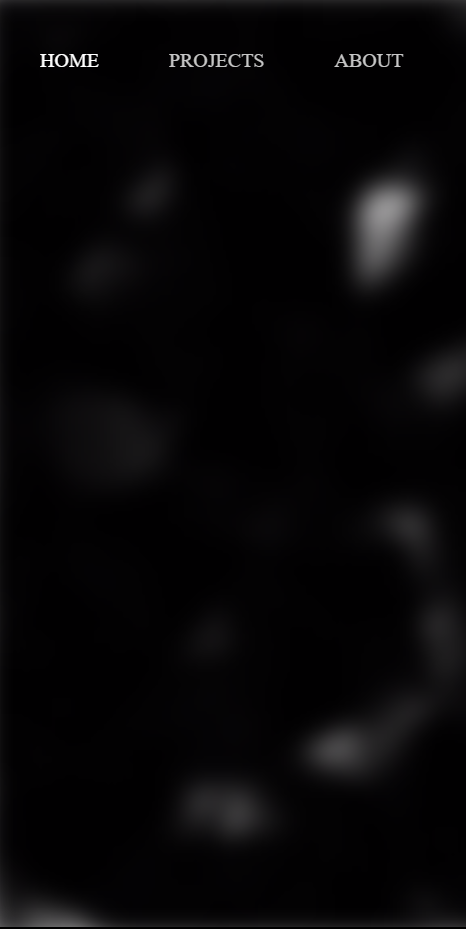
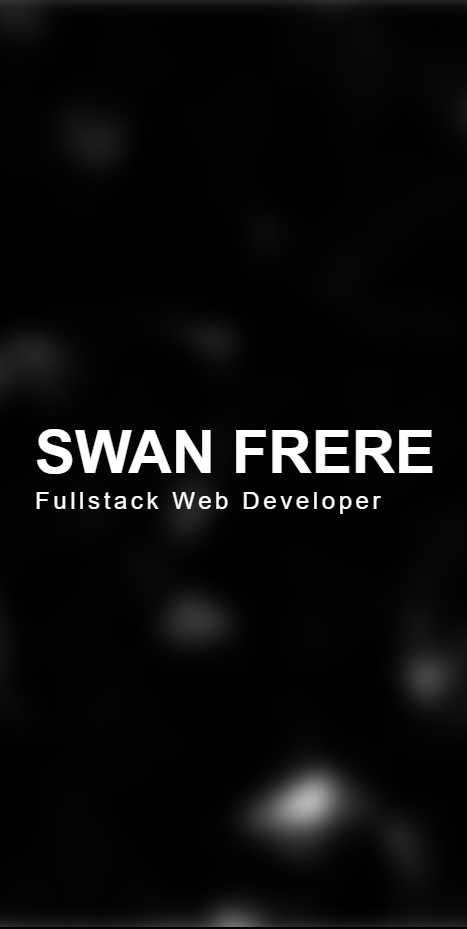
add: complete projects page

diff --git a/src/Data/projects.tsx b/src/Data/projects.tsx
@@ -2,15 +2,18 @@ const projects = [
         {
             index: 0,
             title: 'Portfolio',
+            description: "Portfolio personnel réalisé avec le framework ReactJS - Typescript, rendu avec technologie SSR (Server-Side Rendering). Le CSS est entièrement perosnnalisé (pas de Tailwind ou Bootstrap) et géré avec un compilateur SASS. L'objectif de ce projet est d'ouvrir une petite fenêtre sur moi et mon travail, en exposant mes principales réalisations.",
+            note: null,
+            link: 'http://localhost:5173/',
             images: [
                 '/images/portfolio1.png',
                 '/images/portfolio2.png',
                 '/images/portfolio3.png',
             ],
             technos: [
-                { name: 'React', color: '#61DBFB' },
-                { name: 'TypeScript', color: '#3178C6' },
-                { name: 'Sass', color: '#CC6699' },
+                { name: 'React', color: '#4aa2ed' },
+                { name: 'TypeScript', color: '#1f5da1' },
+                { name: 'Sass', color: '#9b2761' },
             ],
             isOdd: false,
             scroll: false,
@@ -18,16 +21,17 @@ const projects = [
         },
         {
             index: 1,
-            title: 'Portfolio',
+            title: 'Davy Corpet',
+            description: "Site vitrine pour un professionnel de la maçonnerie et du granulat. Réalisé avec ReactJS, le site est entièrement responsive et optimisé pour le référencement naturel. L'objectif de ce projet est de présenter les services de l'entreprise, les réalisations passées et les coordonnées de contact.",
+            note: "Le projet est en cours de développement.",
+            link: 'https://davy-corpet.fr/',
             images: [
-                '/images/portfolio/1.jpg',
-                '/images/portfolio/2.jpg',
-                '/images/portfolio/3.jpg',
+                '/images/davy1.png',
+                '/images/davy2.png',
+                '/images/davy3.png',
             ],
             technos: [
-                { name: 'Vue', color: '#61DBFB' },
-                { name: 'NextJS', color: '#539E43' },
-                { name: 'MongoDB', color: '#4DB33D' },
+                { name: 'React', color: '#4aa2ed' },
             ],
             isOdd: true,
             scroll: false,
@@ -35,19 +39,44 @@ const projects = [
         },
         {
             index: 2,
-            title: 'Portfolio',
+            title: "Roxy's Adventures",
+            description: "Jeu éducatif pour l'apprentissage de l'anglais. Réalisé avec la librairie ThreeJS, le jeu est entièrement en 3D et propose des mini-jeux pour apprendre l'anglais de manière ludique. L'objectif de ce projet est de proposer une alternative aux méthodes d'apprentissage traditionnelles. On incarne Roxy, un petit renard qui voyage à travers le monde pour apprendre l'anglais.",
+            note: "Malheureusement non déployé pour le moment.",
+            link: '#',
             images: [
-                '/images/portfolio/1.jpg',
-                '/images/portfolio/2.jpg',
-                '/images/portfolio/3.jpg',
+                '/images/roxy1.png',
+                '/images/roxy2.png',
+                '/images/roxy3.png',
             ],
             technos: [
-                { name: 'ThreeJS', color: '#61DBFB' },
-                { name: 'TypeScript', color: '#3178C6' },
-                { name: 'MongoDB', color: '#4DB33D' },
-                { name: 'Sass', color: '#CC6699' },
+                { name: 'Javascript', color: '#9ba103' },
+                { name: 'ThreeJS', color: '#3aa103' },
+                { name: 'Firebase', color: '#b86404' },
             ],
             isOdd: false,
+            scroll: false,
+            setScroll: () => { },
+        },
+        {
+            index: 3,
+            title: "S.W.A.N.",
+            description: "Sky Weather Analyisis Navigator est un projet scolaire réalisé individuellement dont l'objectif est de proposer une application web permettant de visualiser les données météorologiques en temps réel. L'application utilise l'api OpenWeather qui permet d'afficher différentes métriques telles que la température, l'humidité, le vent, la pluie, la neige, etc. L'application fonctionne avec une partie back en Spring Boot et un front en React. Le tout alimenté avec une base de données PostgreSQL et un service de cache redis. L'application est déployée avec Docker.",
+            note: "Non déployé car projet scolaire.",
+            link: '#',
+            images: [
+                '/images/swan1.png',
+                '/images/swan2.png',
+                '/images/swan3.png',
+            ],
+            technos: [
+                { name: 'Java', color: '#010d87' },
+                { name: 'Spring Boot', color: '#170187' },
+                { name: 'React', color: '#4aa2ed' },
+                { name: 'PostgreSQL', color: '#018787' },
+                { name: 'Redis', color: '#470909' },
+                { name: 'Docker', color: '#0757ad' },
+            ],
+            isOdd: true,
             scroll: false,
             setScroll: () => { },
         },

diff --git a/src/Components/Project/Project.scss b/src/Components/Project/Project.scss
@@ -8,6 +8,7 @@
     justify-content: center;
     align-items: center;
     color: #fff;
+    font-family: 'Lucida Sans', 'Lucida Sans Regular', 'Lucida Grande', 'Lucida Sans Unicode', Geneva, Verdana, sans-serif;
 
     &:nth-child(odd) {
         flex-direction: row-reverse;
@@ -91,8 +92,84 @@
         margin: 0;
         padding: 2rem;
     
-        background: rgba(255, 255, 255, 0.107);
+        background: rgba(255, 255, 255, 0.05);
         border-radius: 2rem;
+
+        p {
+            font-family: "Roboto Flex", sans-serif;
+            text-align: justify;
+        }
+
+        .link {
+            position: relative;
+            width: 8rem;
+            display: block;
+            background-color: rgb(135, 1, 60);
+            text-align: center;
+            text-decoration: none;
+            margin: 1rem 0;
+            padding: 0.5rem 1.5rem 0.5rem 1.5rem;
+            border-radius: 5px;
+            font-weight: bold;
+            text-transform: uppercase;
+            color: rgb(255, 255, 255);
+            overflow: hidden;
+
+            span {
+                position: relative;
+                z-index: 2;
+            }
+
+            &::before {
+                position: absolute;
+                content: "";
+                width: 100%;
+                height: 100%;
+                background-color: rgb(223, 6, 100);
+                top: 0;
+                left: 0;
+                transition: transform 0.5s;
+                transform: scaleX(0);
+                transform-origin: left;
+                z-index: 1;
+            }
+        
+            &::after {
+                position: absolute;
+                content: "\f072";
+                font: normal normal normal 14px/1 FontAwesome;
+                margin-left: 0.5rem;
+                margin-top: 4px;
+                transform: translateX(-7rem);
+                transition: transform 0.5s;
+                z-index: 3;
+            }
+
+            &:hover, &:focus {                
+                &::before {
+                    transform: scaleX(1);
+                    transform-origin: left;
+                }
+
+                &::after {
+                    transform: translateX(0);
+                }
+            }
+
+            &.disabled {
+                background-color: rgba(135, 1, 60, 0.5);
+                color: rgba(255, 255, 255, 0.5);
+                cursor: not-allowed;
+
+                &::before {
+                    background-color: rgba(110, 110, 110, 1);
+                }
+
+                &::after {
+                    content: "\f188";
+                }
+            }
+        }
 
         .technos ul {
             font-size: 0.85rem;
@@ -150,7 +227,26 @@
 }
 
 @media (max-width: 600px) {
-    .project .technos ul li {
-        font-size: 0.6rem;
+    .project {
+        .title {
+            .img-wrapper {
+                min-width: 300px;
+                height: 150px;
+            }
+        }
+
+        .caption {
+            p {
+                font-size: 0.9rem;
+            }
+            .link {
+                font-size: 0.9rem;
+                padding: 0.5rem 1rem 0.5rem 1rem;
+            }
+
+            .technos ul li {
+                font-size: 0.6rem;
+            }
+        }
     }
 }

diff --git a/src/Components/Project/Project.tsx b/src/Components/Project/Project.tsx
@@ -4,7 +4,7 @@ import useWindowDimensions from '../../Hooks/useWindowDimensions';
 
 
 
-function Project({ index, title, images, technos, isOdd = false, scroll, setScroll }: { index: number, title: string, images: Array<string>, technos: Array<Techno>,isOdd: boolean, scroll: boolean, setScroll: (scroll: boolean) => void }) {
+function Project({ index, title, description, note = null, link, images, technos, isOdd = false, scroll, setScroll }: { index: number, title: string, description: string, note: string|null, link: string, images: Array<string>, technos: Array<Techno>,isOdd: boolean, scroll: boolean, setScroll: (scroll: boolean) => void }) {
     const projectRef = useRef<HTMLDivElement>(null);
     const { height } = useWindowDimensions();
     const [isVisible, setIsVisible] = useState(false);
@@ -40,8 +40,13 @@ function Project({ index, title, images, technos, isOdd = false, scroll, setScro
             </div>
             <div className="caption">
                 <p>
-                    Lorem ipsum dolor sit amet consectetur adipisicing elit. Perspiciatis tempora distinctio ratione ullam illo eos quas placeat, odit blanditiis perferendis consequatur assumenda laudantium odio repellendus porro error quaerat eum provident.
+                    {description}
+                    {note && <>
+                        <br />
+                        <i>{note}</i>
+                    </>}
                 </p>
+                <a className={('#' === link ? 'disabled ' : '') + "link"} href={link} target={'#' === link ? '' : 'blank'}><span>Visit</span></a>
                 <div className="technos">
                     <ul>
                         {technos.map((techno, i) => <li key={i} style={{ backgroundColor: techno.color }}>{techno.name}</li>)}

diff --git a/src/Components/Hero/Hero.tsx b/src/Components/Hero/Hero.tsx
@@ -6,6 +6,7 @@ import './Hero.scss'
 import av1 from '../../assets/av1.png'
 import av2 from '../../assets/av2.png'
 import av3 from '../../assets/av3.png'
+import { NavLink } from "react-router-dom";
 
 function Hero({ parent }: { parent: React.RefObject<HTMLDivElement> }) {
     const [addBall, _setAddBall] = useState(false);
@@ -118,8 +119,8 @@ function Hero({ parent }: { parent: React.RefObject<HTMLDivElement> }) {
             <h1>SWAN FRERE</h1>
             <p ref={typewrite}></p>
             <div className="actions">
-                <a className="hire" href=""><span><i><FontAwesomeIcon icon={faSuitcase} /></i>Hire Me</span></a>
-                <a className="explore" href=""><span>Explore<i><FontAwesomeIcon icon={faArrowRight} /></i></span></a>
+                <a className="hire" href="https://www.linkedin.com/in/swan-frere/" target="blank"><span><i><FontAwesomeIcon icon={faSuitcase} /></i>Hire Me</span></a>
+                <NavLink className="explore" to="/projects"><span>Explore<i><FontAwesomeIcon icon={faArrowRight} /></i></span></NavLink>
             </div>
         </div>
         </div>

diff --git a/src/Pages/Projects.tsx b/src/Pages/Projects.tsx
@@ -10,7 +10,7 @@ function Projects( {projects}: { projects: Array<Project> } ) {
     return (
         <div className="main">
             <div className="projects" onScroll={() => setScroll(true)}>
-                {projects.map((projects, i) => <Project key={i} index={projects.index} title={projects.title} images={projects.images} technos={projects.technos} isOdd={projects.isOdd} scroll={scroll} setScroll={setScroll} />)}
+                {projects.map((project, i) => <Project key={i} index={project.index} title={project.title} description={project.description} note={project.note} link={project.link} images={project.images} technos={project.technos} isOdd={project.isOdd} scroll={scroll} setScroll={setScroll} />)}
             </div>
         </div>
     );

diff --git a/index.html b/index.html
@@ -6,7 +6,8 @@
   <link rel="icon" type="image/svg+xml" href="https://avatars.githubusercontent.com/u/114499713?v=4" />
   <link rel="preconnect" href="https://fonts.googleapis.com">
   <link rel="preconnect" href="https://fonts.gstatic.com" crossorigin>
-  <link href="https://fonts.googleapis.com/css2?family=Ojuju:wght@200..800&display=swap" rel="stylesheet">
+  <link href="https://fonts.googleapis.com/css2?family=Press+Start+2P&display=swap" rel="stylesheet">
+  <script src="https://kit.fontawesome.com/3ce3e709cd.js" crossorigin="anonymous"></script>
   <meta name="robots" content="noindex, nofollow">
   <meta name="viewport" content="width=device-width, initial-scale=1.0" />
   <title>Swan Frere - Portfolio</title>

diff --git a/src/Pages/Pages.css b/src/Pages/Pages.css
@@ -30,11 +30,14 @@ video {
     margin-top: 7rem;
     overflow-x: scroll;
 
-    font-family: "Ojuju", sans-serif;
     font-optical-sizing: auto;
     font-weight: 500;
     font-style: normal;
     text-transform: uppercase;
+
+    @media (max-width: 600px) {
+        margin-top: 5rem;
+    }
 }
 
 .projects::-webkit-scrollbar {

diff --git a/server.js b/server.js
@@ -56,8 +56,6 @@ app.use('*', async (req, res) => {
     const html = template
       .replace(`<!--app-html-->`, rendered ?? '')
 
-    console.log(html)
-
     res.status(200).set({ 'Content-Type': 'text/html' }).send(html)
   } catch (e) {
     vite?.ssrFixStacktrace(e)

diff --git a/src/Shared/Interfaces/project.interface.ts b/src/Shared/Interfaces/project.interface.ts
@@ -1,6 +1,9 @@
 interface Project {
     index: number;
     title: string;
+    description: string;
+    note: string | null;
+    link: string;
     images: Array<string>;
     technos: Array<Techno>;
     isOdd: boolean;
